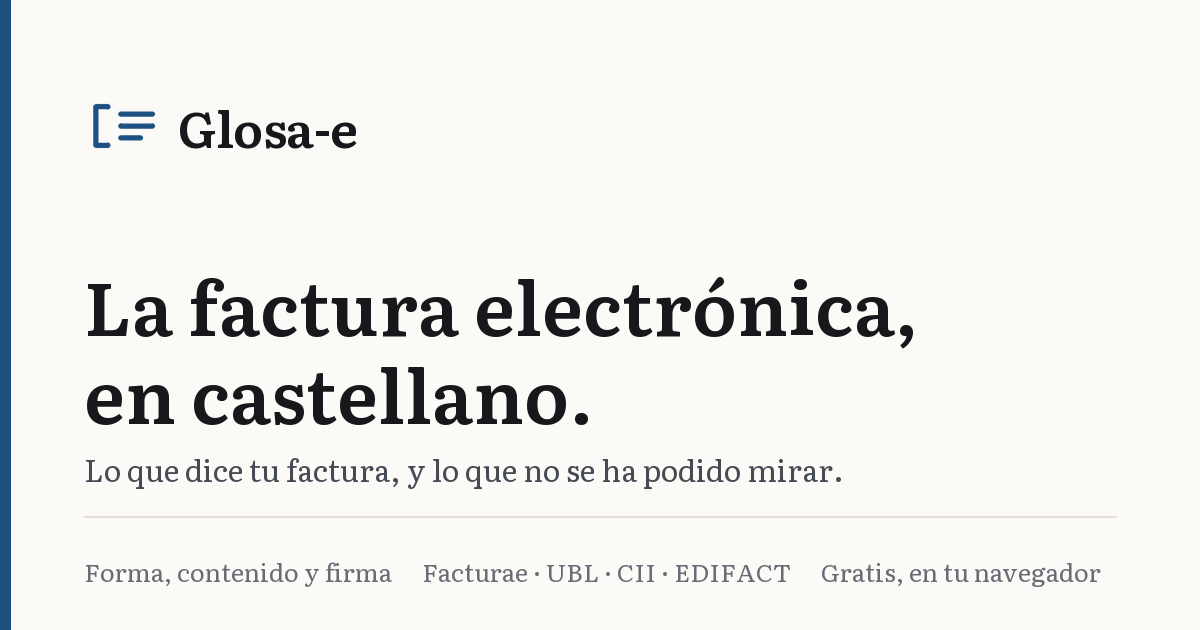
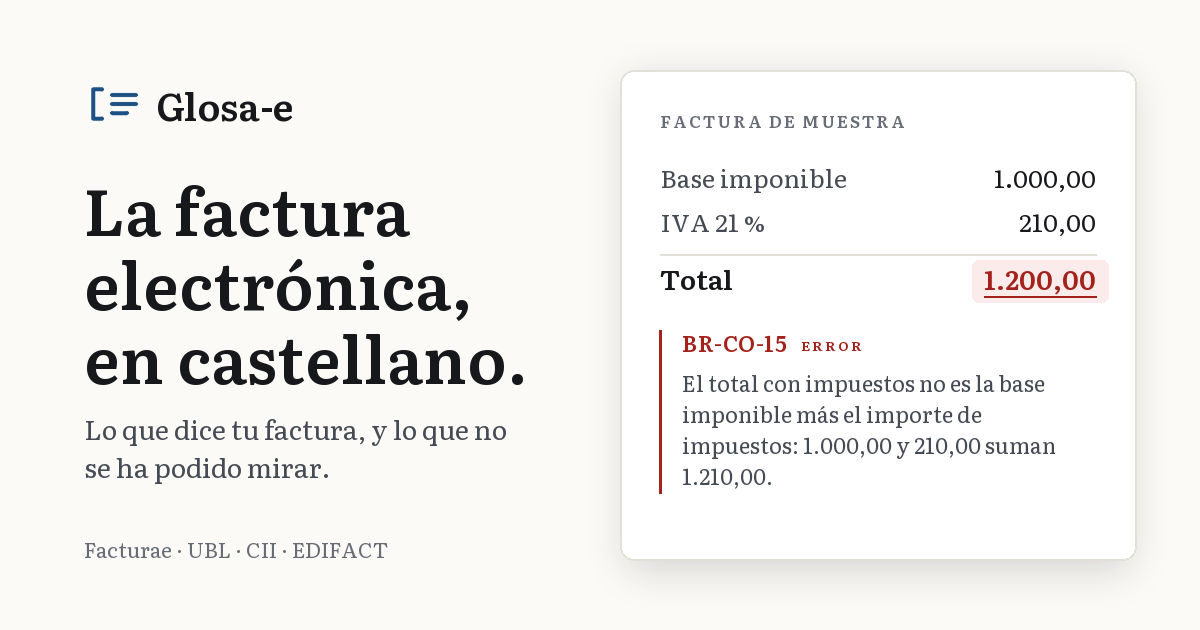
La tarjeta social: la glosa al margen
Elegida por el titular entre tres propuestas: el titular de la portada a
un lado y, al otro, un trozo de factura de muestra con un total que no
cuadra y su glosa, BR-CO-15. Ensena lo que hace la herramienta en vez de
decirlo. Todo en Literata, tambien cifras y codigo: la mono de la pagina
es la del sistema y la tarjeta saldria distinta en cada maquina.

Cae de paso una afirmacion falsa: el pie viejo ponia la firma primero
porque "ningun otro validador gratuito" la comprueba, y B2Brouter y
FacturaView la comprueban gratis (estudio de mercado del 24-09-2026).

test_la_glosa_de_la_tarjeta_es_la_del_glosario: el codigo existe, sale
como error, la frase es la del glosario y el total de muestra no cuadra.
Cinco roturas provocadas, cinco rojos.

diff --git a/herramientas/tarjeta.py b/herramientas/tarjeta.py
@@ -42,16 +42,19 @@ tarjeta saliera distinta en cada máquina que la regenerase, que es justo lo que
 import pathlib
 import sys
 
-from PIL import Image, ImageDraw, ImageFont
+from PIL import Image, ImageDraw, ImageFilter, ImageFont
 
 # Los colores son los de `web/glosa.css`, tema claro. No se inventa ninguno:
 # la tarjeta es lo primero que se ve de la página y tiene que ser la página.
 PAPEL = "#fbfaf7"
+PANEL = "#ffffff"
 TINTA = "#16181c"
 TINTA_2 = "#454b54"
 TENUE = "#676c76"
 BORDE = "#e3e0d7"
 ACENTO = "#1c4e80"
+ERROR = "#a3231c"
+ERROR_FLOJO = "#fbeceb"
 
 ANCHO, ALTO = 1200, 630
 MARGEN = 84
@@ -85,6 +88,14 @@ BASE_BAJO_EL_CENTRO = 0.4408
 # El signo se pinta a este múltiplo y se reduce: Pillow no suaviza los trazos,
 # y a tamaño real salía dentado, que se veía en la tarjeta vieja.
 SOBREMUESTREO = 4
+
+# La glosa del folio. Es un código de verdad y su explicación de verdad: la
+# primera frase sale de `validador/glosario.py` tal cual, y
+# `tests/test_tarjeta.py` lo comprueba. Los importes son de muestra, y la
+# cuenta se hace aquí para que la tarjeta no pueda sumar mal.
+GLOSA_CODIGO = "BR-CO-15"
+GLOSA_FRASE = "El total con impuestos no es la base imponible más el importe de impuestos"
+BASE, TIPO, TOTAL_DECLARADO = 1000, 21, 1200
 
 DESTINO = pathlib.Path("web/marca/tarjeta.png")
 LETRA = pathlib.Path("web/letra/literata.woff2")
@@ -162,43 +173,104 @@ def _marca(lienzo: Image.Image, x: float, centro: float, tamano: float,
     return empieza + fuente.getlength(palabra) + (len(palabra) - 1) * NOMBRE_ESPACIADO * tamano
 
 
+def _importe(n: float) -> str:
+    """Como se escribe un importe en una factura española: 1.210,00."""
+    return f"{n:,.2f}".replace(",", " ").replace(".", ",").replace(" ", ".")
+
+
+def _partir(texto: str, fuente: ImageFont.FreeTypeFont, ancho: float) -> list[str]:
+    lineas, actual = [], ""
+    for palabra in texto.split():
+        prueba = f"{actual} {palabra}".strip()
+        if fuente.getlength(prueba) <= ancho:
+            actual = prueba
+        else:
+            lineas.append(actual)
+            actual = palabra
+    return lineas + [actual]
+
+
+def _versalitas(dibujo, x, y, texto, fuente, color, aire) -> float:
+    """Letra a letra, con `aire` px entre cada una; devuelve dónde acaba."""
+    for letra in texto:
+        dibujo.text((x, y), letra, font=fuente, fill=color, anchor="ls")
+        x += fuente.getlength(letra) + aire
+    return x
+
+
 def dibujar(ruta_letra: str) -> Image.Image:
-    lienzo = Image.new("RGB", (ANCHO, ALTO), PAPEL)
+    """La glosa al margen: el titular a un lado, y al otro un trozo de factura
+    con la glosa que le pondría la página. Elegida por el titular el
+    25-09-2026 entre tres propuestas: es la única que enseña lo que hace la
+    herramienta en vez de decirlo.
+
+    Todo va en Literata, también las cifras y el código, aunque la página los
+    pone en su mono: la mono de la página es la del sistema, y una tarjeta
+    pintada con la letra de la máquina que la regenera sale distinta en cada
+    una, que es lo que este guion evita desde el principio.
+    """
+    lienzo = Image.new("RGBA", (ANCHO, ALTO), PAPEL)
+    _marca(lienzo, MARGEN, 104, 38, ruta_letra)
     dibujo = ImageDraw.Draw(lienzo)
 
-    # La franja del acento, a la izquierda y estrecha. Es el único color fuerte
-    # de la tarjeta: el resto es papel y tinta, como la página.
-    dibujo.rectangle([0, 0, 10, ALTO], fill=ACENTO)
-
-    _marca(lienzo, MARGEN, MARGEN + 42, 50, ruta_letra)
-
     # El titular. Es el de la portada, palabra por palabra: la tarjeta promete
-    # lo que la página cumple, y si dijera otra cosa sería un anzuelo.
-    titular = _letra(ruta_letra, 74, 600)
-    dibujo.text((MARGEN, 248), "La factura electrónica,", font=titular, fill=TINTA)
-    dibujo.text((MARGEN, 336), "en castellano.", font=titular, fill=TINTA)
+    # lo que la página cumple, y si dijera otra cosa sería un anzuelo. En tres
+    # líneas, como en la portada a lo estrecho.
+    titular = _letra(ruta_letra, 64, 600)
+    dibujo.text((MARGEN, 236), "La factura", font=titular, fill=TINTA, anchor="ls")
+    dibujo.text((MARGEN, 310), "electrónica,", font=titular, fill=TINTA, anchor="ls")
+    dibujo.text((MARGEN, 384), "en castellano.", font=titular, fill=TINTA, anchor="ls")
+    lema = _letra(ruta_letra, 27, 400)
+    lineas = _partir("Lo que dice tu factura, y lo que no se ha podido mirar.", lema, 440)
+    for i, linea in enumerate(lineas):
+        dibujo.text((MARGEN, 440 + i * 38), linea, font=lema, fill=TINTA_2, anchor="ls")
+    dibujo.text((MARGEN, ALTO - 72), "Facturae · UBL · CII · EDIFACT",
+                font=_letra(ruta_letra, 21, 400), fill=TENUE, anchor="ls")
 
-    dibujo.text(
-        (MARGEN, 446),
-        "Lo que dice tu factura, y lo que no se ha podido mirar.",
-        font=_letra(ruta_letra, 30, 400),
-        fill=TINTA_2,
-    )
+    # El folio, con la sombra de `--sombra`: poca, y hacia abajo.
+    x0, y0, x1, y1 = 620, 70, ANCHO - MARGEN + 20, ALTO - 70
+    sombra = Image.new("RGBA", lienzo.size, (0, 0, 0, 0))
+    ImageDraw.Draw(sombra).rounded_rectangle([x0 + 6, y0 + 10, x1 - 6, y1 + 10], 14,
+                                             fill=(20, 24, 28, 40))
+    lienzo.alpha_composite(sombra.filter(ImageFilter.GaussianBlur(18)))
+    dibujo = ImageDraw.Draw(lienzo)
+    dibujo.rounded_rectangle([x0, y0, x1, y1], 14, fill=PANEL, outline=BORDE, width=2)
+    pad = 40
+    _versalitas(dibujo, x0 + pad, y0 + 58, "FACTURA DE MUESTRA",
+                _letra(ruta_letra, 17, 600), TENUE, 2)
 
-    dibujo.line([(MARGEN, 516), (ANCHO - MARGEN, 516)], fill=BORDE, width=2)
+    cifras = _letra(ruta_letra, 25, 400)
+    iva = BASE * TIPO / 100
+    y = y0 + 118
+    for concepto, importe in (("Base imponible", BASE), (f"IVA {TIPO} %", iva)):
+        dibujo.text((x0 + pad, y), concepto, font=cifras, fill=TINTA_2, anchor="ls")
+        dibujo.text((x1 - pad, y), _importe(importe), font=cifras, fill=TINTA, anchor="rs")
+        y += 44
+    dibujo.line([(x0 + pad, y - 22), (x1 - pad, y - 22)], fill=BORDE, width=2)
+    y += 14
+    # El total que no cuadra, marcado como lo marca el informe.
+    total = _letra(ruta_letra, 27, 600)
+    declarado = _importe(TOTAL_DECLARADO)
+    ancho = total.getlength(declarado)
+    dibujo.rounded_rectangle([x1 - pad - ancho - 12, y - 30, x1 - pad + 12, y + 12], 6,
+                             fill=ERROR_FLOJO)
+    dibujo.text((x0 + pad, y), "Total", font=total, fill=TINTA, anchor="ls")
+    dibujo.text((x1 - pad, y), declarado, font=total, fill=ERROR, anchor="rs")
+    dibujo.line([(x1 - pad - ancho, y + 6), (x1 - pad, y + 6)], fill=ERROR, width=2)
 
-    # Abajo, lo que nos separa y no una lista de virtudes. Las tres
-    # comprobaciones van primero **porque la firma es la que no hace ningún
-    # otro validador gratuito**, y en una tarjeta que se ve dos segundos eso
-    # es lo único que hay que conseguir que se lea.
-    dibujo.text(
-        (MARGEN, 552),
-        "Forma, contenido y firma      Facturae · UBL · CII · EDIFACT"
-        "      Gratis, en tu navegador",
-        font=_letra(ruta_letra, 25, 400),
-        fill=TENUE,
-    )
-    return lienzo
+    # La glosa: el código fuera, contra un filete, como en la página.
+    gy, gx = y + 62, x0 + pad + 22
+    fin = _versalitas(dibujo, gx, gy, GLOSA_CODIGO, _letra(ruta_letra, 22, 600), ERROR, 0.5)
+    _versalitas(dibujo, fin + 14, gy - 1, "ERROR", _letra(ruta_letra, 14, 600), ERROR, 2)
+    cuerpo = _letra(ruta_letra, 22, 400)
+    frase = (f"{GLOSA_FRASE}: {_importe(BASE)} y {_importe(iva)} "
+             f"suman {_importe(BASE + iva)}.")
+    lineas = _partir(frase, cuerpo, x1 - pad - gx)
+    for i, linea in enumerate(lineas):
+        dibujo.text((gx, gy + 40 + i * 31), linea, font=cuerpo, fill=TINTA_2, anchor="ls")
+    dibujo.line([(x0 + pad, gy - 22), (x0 + pad, gy + 40 + (len(lineas) - 1) * 31 + 8)],
+                fill=ERROR, width=3)
+    return lienzo.convert("RGB")
 
 
 if __name__ == "__main__":

diff --git a/tests/test_tarjeta.py b/tests/test_tarjeta.py
@@ -144,3 +144,27 @@ def test_la_marca_de_la_tarjeta_es_la_de_la_cabecera():
     assert (int(peso), float(tamano)) == (guion["NOMBRE_PESO"], guion["NOMBRE_REM"])
     espaciado = float(re.search(r"letter-spacing:\s*(-?[\d.]+)em", nombre)[1])
     assert espaciado == guion["NOMBRE_ESPACIADO"]
+
+
+def test_la_glosa_de_la_tarjeta_es_la_del_glosario():
+    """La tarjeta enseña una glosa, y tiene que ser una que la página escribe.
+
+    Desde el 25-09-2026 la tarjeta es un trozo de factura con su glosa al
+    margen. Una tarjeta que explicara un código de otra manera que la página,
+    o con otra gravedad, sería la peor forma de presentarse: lo primero que se
+    ve de Glosa-e diciendo algo que Glosa-e no dice.
+    """
+    from validador import glosario
+    from validador.codigos import codigos_del_paquete
+
+    guion = _constantes_del_guion()
+    codigo, frase = guion["GLOSA_CODIGO"], guion["GLOSA_FRASE"]
+    suyo = {c.codigo: c for c in codigos_del_paquete()}.get(codigo)
+    assert suyo, f"la tarjeta glosa {codigo}, que el validador no emite"
+    assert suyo.gravedades == ("error",), (
+        f"la tarjeta dice ERROR y {codigo} sale como {suyo.gravedades}")
+    assert glosario.CODIGOS.get(codigo, "").startswith(frase), (
+        f"la tarjeta explica {codigo} con «{frase}», y el glosario no empieza así")
+    # Y la cuenta: el total declarado no puede ser el bueno, o no hay glosa.
+    base, tipo, total = guion["BASE"], guion["TIPO"], guion["TOTAL_DECLARADO"]
+    assert base * (100 + tipo) / 100 != total, "el total de muestra cuadra: no hay error que glosar"

diff --git a/README.md b/README.md
@@ -29,7 +29,7 @@ según el RD 238/2026.
 | `validador/bitacora.py` | La bitácora del sitio: índice y artículos, generados de una plantilla | Terminado |
 | `validador/__main__.py` | La línea de órdenes | Terminado |
 
-2609 tests, todos en verde.
+2610 tests, todos en verde.
 
 ```bash
 .venv/Scripts/python.exe -m pip install --no-deps -r requisitos-pruebas.txt
@@ -4248,11 +4248,23 @@ Y va con negativa, por lo mismo que la letra: un `og:image` que apunta a una
 dirección que da 404 no rompe nada y no da error **aquí**. Da error en la casa
 de otro, ya publicado.
 
-Abajo, la tarjeta dice tres cosas y en este orden: *forma, contenido y firma* ·
-*Facturae · UBL · CII · EDIFACT* · *gratis, en tu navegador*. Las tres
-comprobaciones van primero porque **la firma es la que no hace ningún otro
-validador gratuito**, y en una tarjeta que se mira dos segundos eso es lo único
-que hay que conseguir que se lea.
+Desde el 25-09-2026 la tarjeta es **la glosa al margen**: el titular de la
+portada a la izquierda y, a la derecha, un trozo de factura de muestra con la
+glosa que le pondría la página —BR-CO-15, un total que no es la base más el
+IVA—. La eligió el titular entre tres propuestas porque es la única que enseña
+lo que hace la herramienta en vez de decirlo. La frase sale del glosario y la
+cuenta la hace el guion, y `tests/test_tarjeta.py` comprueba las dos cosas:
+una tarjeta que explicara un código de otra manera que la página sería la peor
+forma de presentarse. Todo va en Literata, también las cifras y el código,
+aunque la página los ponga en su mono: la mono de la página es la del sistema,
+y una tarjeta pintada con la letra de la máquina que la regenera sale distinta
+en cada una.
+
+Hasta ese día, abajo decía *forma, contenido y firma* y el porqué escrito aquí
+era que **la firma es la que no hace ningún otro validador gratuito**. No era
+verdad: el estudio de mercado del 24-09-2026 encontró a B2Brouter y a
+FacturaView verificándola gratis. La tarjeta nueva no presume de nada que no
+enseñe.
 
 ### El buzón para quien encuentre un fallo
 

diff --git a/HALLAZGOS.md b/HALLAZGOS.md
@@ -5872,3 +5872,21 @@ filtro— se negó porque, mientras el gancho pasaba la suite, se estaba editand
 este guion en el mismo árbol, y la prueba de la tarjeta vio un dibujo que ya no
 era el publicado. El gancho hizo lo que tenía que hacer. Mientras corre, el
 árbol no se toca.
+
+## La tarjeta presumía de algo que no era verdad
+
+La tarjeta vieja decía abajo «forma, contenido y firma», y el README lo
+justificaba: la firma iba primero porque **ningún otro validador gratuito la
+comprueba**. El estudio de mercado del 24-09-2026 lo desmiente: B2Brouter tiene
+un validador gratuito que mira XSD, esquematrón y firma, y FacturaView verifica
+la firma XAdES en el navegador. Era una afirmación sin medir, puesta en lo
+primero que ve quien recibe el enlace.
+
+La tarjeta nueva, elegida por el titular el 25-09-2026, no dice qué hace:
+lo enseña. Un trozo de factura de muestra —rotulada así, «factura de muestra»—
+con un total que no cuadra y su glosa, BR-CO-15, con la primera frase que
+escribe el glosario. `test_la_glosa_de_la_tarjeta_es_la_del_glosario` exige que
+el código exista, que salga como error, que la frase sea la del glosario y que
+el total de muestra no cuadre. Provocado: otra frase, un código que sale como
+nota, un código que no existe y un total que cuadra, cuatro rojos; y la tarjeta
+anterior publicada, rojo en la comparación de píxeles.
